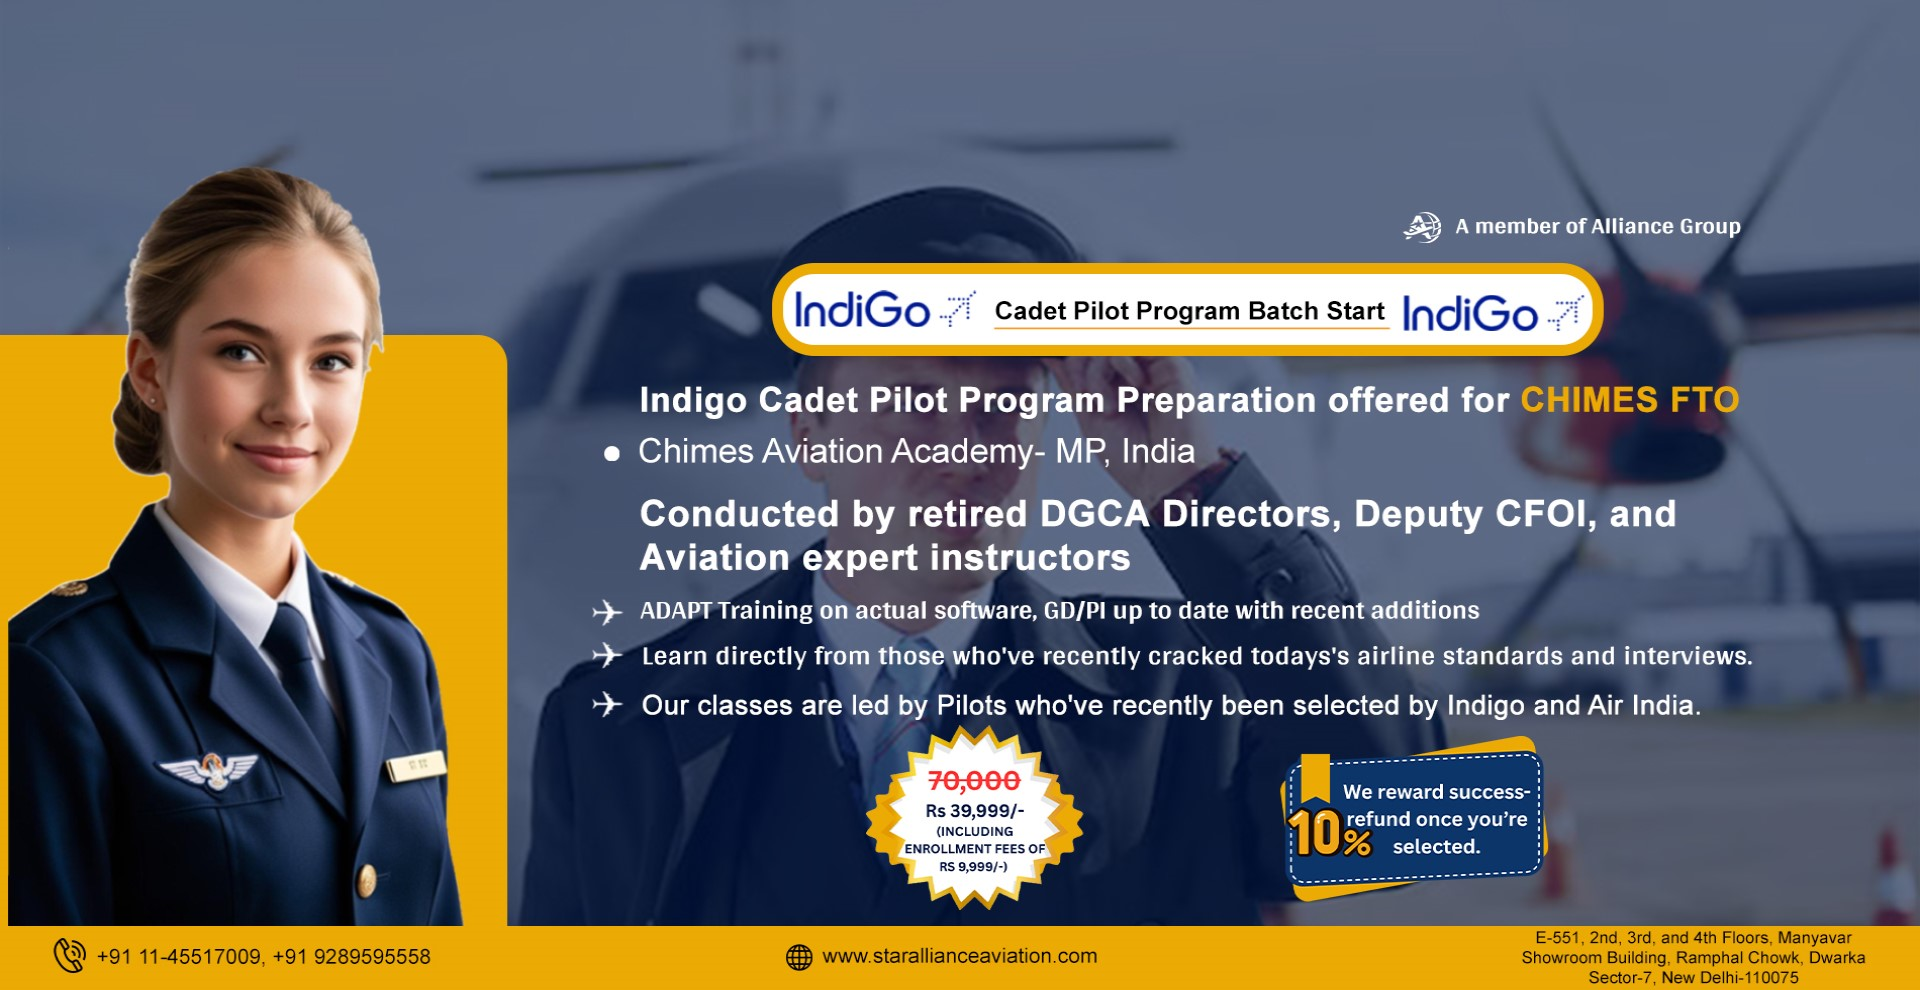
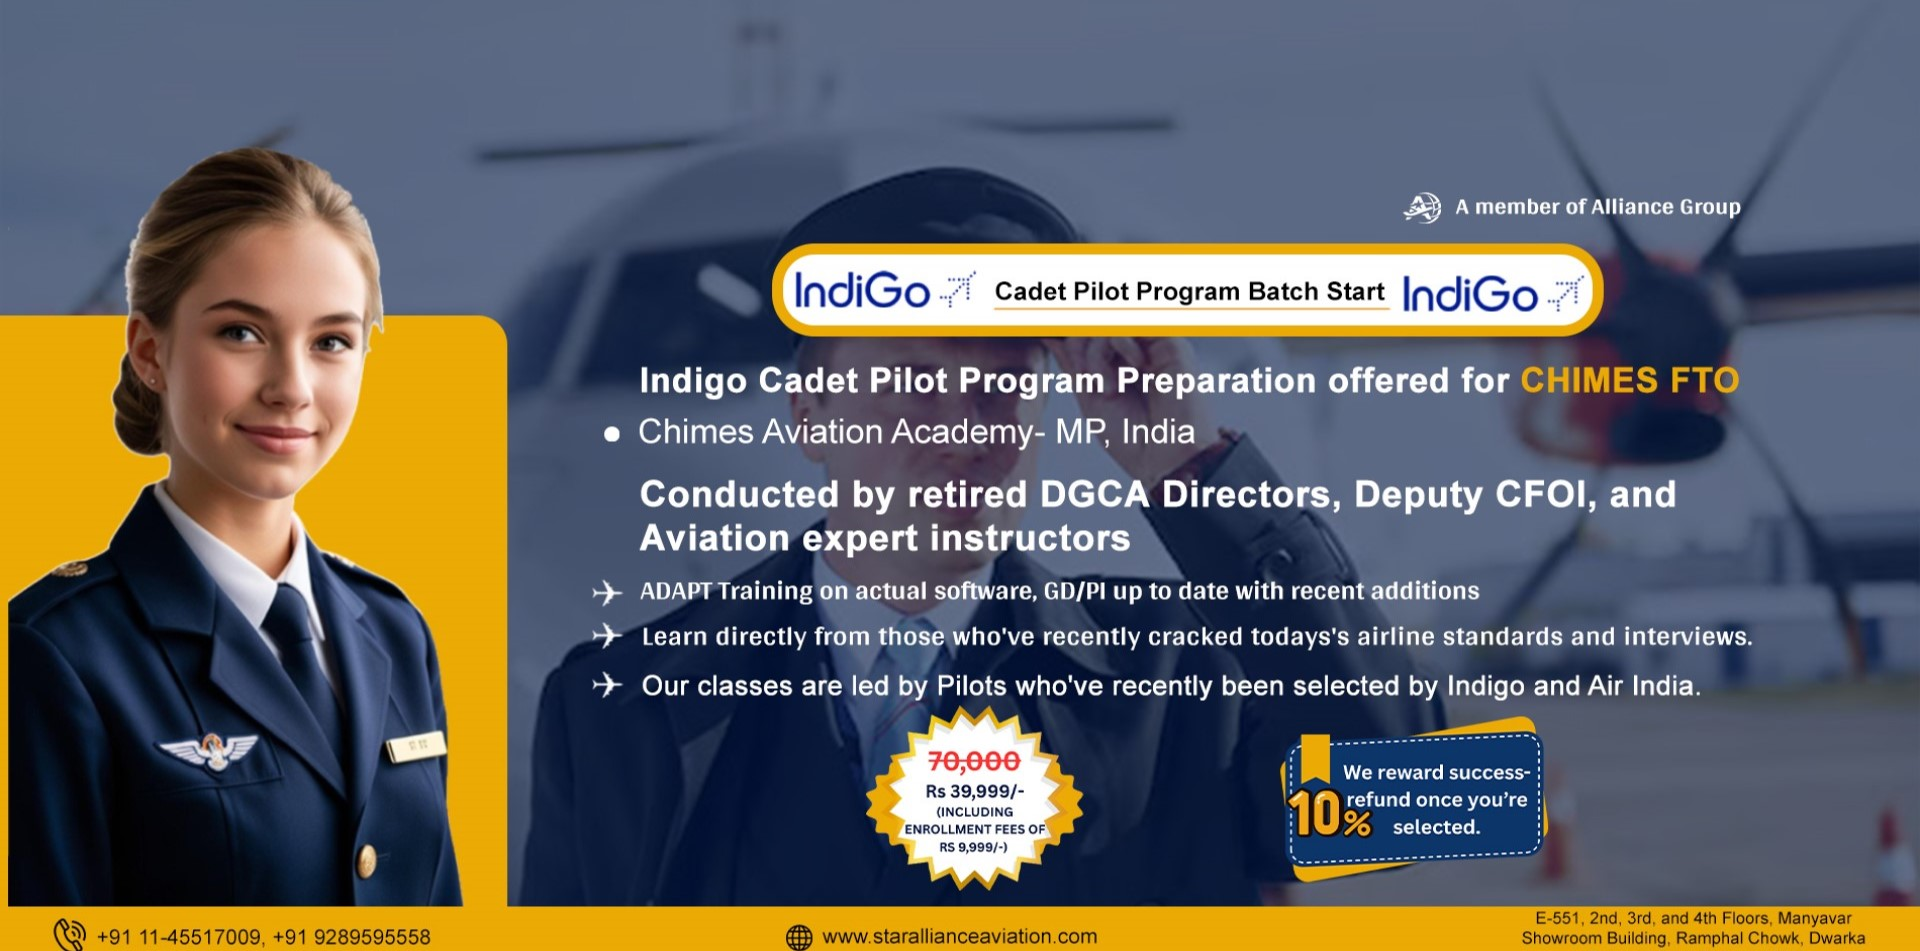
new bannner updated

diff --git a/src/components/HeroSlider.jsx b/src/components/HeroSlider.jsx
@@ -11,12 +11,11 @@ import "swiper/css";
 import "swiper/css/pagination";
 import "swiper/css/navigation";
 import "swiper/css/effect-creative";
-
+import banner from "../img/starbanner1.jpg"
 const slides = [
   {
     id: 1,
-    image:
-      "https://github.com/Ashish-Kaintura/starallianceaviation-/raw/main/src/img/starbanner.jpg",
+    image: { banner },
   },
   // {
   //   id: 2,
@@ -58,7 +57,8 @@ export default function HeroSlider() {
           <SwiperSlide key={slide.id}>
             <div
               className="h-screen  bg-center bg-cover  bg-no-repeat"
-              style={{ backgroundImage: `url(${slide.image})` }}
+              // style={{ backgroundImage: `url(${slide.image})` }}
+              style={{ backgroundImage: `url(${banner})` }}
             >
               <div className="absolute inset-0 bg-black/10" />
             </div>
